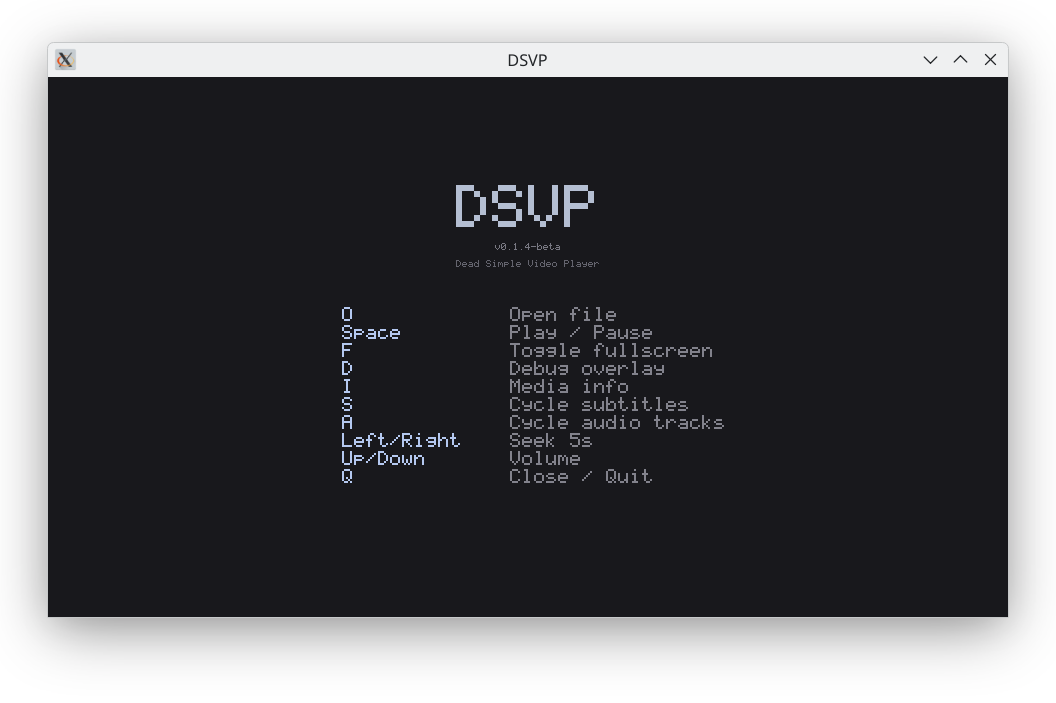
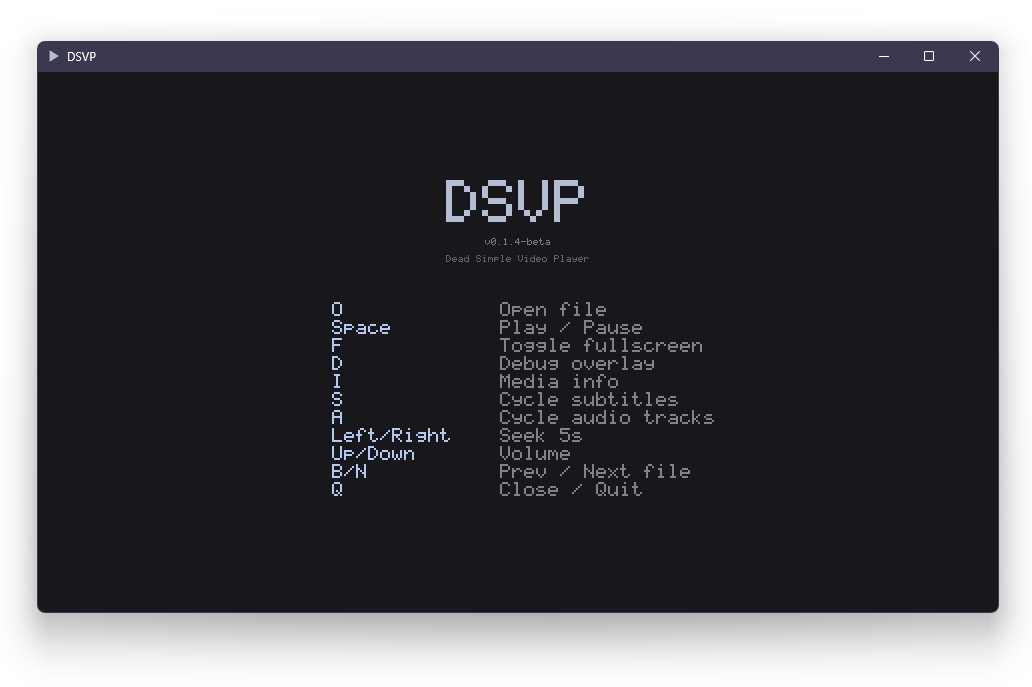
Updated docs, etc for 0.1.5-beta release

diff --git a/src/player.c b/src/player.c
@@ -208,6 +208,8 @@ static const char hlsl_yuv_planar_frag[] =
     "    }\n"
     "\n"
     "    float filtered = (wsum > 0.0) ? result / wsum : 0.0;\n"
+    "    /* Anti-ringing: clamp to local tap range. Strength 0.8 per\n"
+    "     * Artoriuz's scaler benchmarks (mpv community). */\n"
     "    float clamped  = clamp(filtered, tap_min, tap_max);\n"
     "    return lerp(filtered, clamped, 0.8);\n"
     "}\n"

diff --git a/src/dsvp.h b/src/dsvp.h
@@ -37,7 +37,7 @@
 
 /* ── Constants ──────────────────────────────────────────────────────── */
 
-#define DSVP_VERSION        "0.1.4-beta"
+#define DSVP_VERSION        "0.1.5-beta"
 #define DSVP_WINDOW_TITLE   "DSVP"
 
 #define PACKET_QUEUE_MAX    256     /* max packets buffered per stream  */

diff --git a/README.md b/README.md
@@ -21,12 +21,13 @@ Claude wrote most of this:
 
 ## Features
 
-- **Reference-quality playback** — Lanczos-2 luma scaling, Catmull-Rom chroma upsampling, blue noise dithering, faithful color/gamma/framerate
+- **Reference-quality playback** — Lanczos-2 luma scaling (anti-ringing clamp), Catmull-Rom chroma upsampling (siting-corrected), temporal blue noise dithering, faithful color/gamma/framerate
 - **10-bit passthrough** — YUV420P10LE content uploads as R16_UNORM planar textures with no truncation
 - **Software decode only** — no hardware decode, no driver quirks, bit-exact output
 - **Supports everything FFmpeg supports** — H.264, HEVC, AV1, VP9, VC-1, MKV, MP4, and hundreds more
 - **Multi-threaded decoding** — uses all available CPU cores
 - **Full subtitle support** — text (SRT, ASS/SSA), bitmap (PGS, VobSub), CJK fallback fonts, golden yellow with black outline, cycle tracks with `S`
+- **Folder navigation** — `B`/`N` keys to jump between media files in the current folder, with clickable prev/next buttons
 - **Portable** — single folder, no installer, no PATH changes
 - **Secure** — no networking capabilities whatsoever
 - **Cross-platform** — Vulkan on Windows/Linux, Metal on macOS
@@ -43,6 +44,7 @@ Claude wrote most of this:
 | `A` | Cycle audio tracks |
 | `←` / `→` | Seek ±5 seconds |
 | `↑` / `↓` | Volume up / down |
+| `B` / `N` | Previous / next file in folder |
 | `D` | Toggle debug overlay |
 | `I` | Toggle media info overlay |
 
@@ -55,6 +57,7 @@ Claude wrote most of this:
 - **SDL3** development libraries
 - **SDL3_ttf** development libraries
 - **SDL3_shadercross 3.0.0** (bundled — not available via package managers)
+- **zlib** (for PGS subtitle decompression)
 - **GNU Make**
 - **pkg-config**
 
@@ -64,7 +67,7 @@ Claude wrote most of this:
 
 **2. Install dependencies** (from MSYS2 MinGW 64-bit shell):
 ```bash
-pacman -S mingw-w64-x86_64-sdl3 mingw-w64-x86_64-sdl3-ttf
+pacman -S mingw-w64-x86_64-sdl3 mingw-w64-x86_64-sdl3-ttf mingw-w64-x86_64-pkg-config
 ```
 
 FFmpeg 8.0+ shared libraries are also needed via MSYS2:
@@ -100,7 +103,7 @@ sudo apt install gcc make pkg-config \
     libavformat-dev libavcodec-dev libswscale-dev \
     libswresample-dev libavutil-dev \
     libsdl3-dev libsdl3-ttf-dev \
-    fonts-dejavu-core fonts-noto-cjk zenity
+    zlib1g-dev fonts-dejavu-core fonts-noto-cjk zenity
 ```
 
 **2. SDL3_shadercross** is bundled in `shadercross/SDL3_shadercross-3.0.0-linux-x64/`. No action needed — the Makefile finds it automatically.
@@ -161,7 +164,7 @@ DSVP/
 
 ## Technical Details
 
-DSVP uses a custom GPU rendering pipeline built on SDL_GPU with HLSL shaders cross-compiled to SPIR-V via SDL3_shadercross 3.0.0. The fragment shader performs Lanczos-2 resampling on luma (16-tap windowed sinc), Catmull-Rom bicubic interpolation on chroma (16-tap), limited→full range expansion, BT.601/BT.709 color matrix conversion, and blue noise dithering (64×64 void-and-cluster texture) — all in a single pass. YUV420P and YUV420P10LE formats bypass `swscale` entirely; raw decoded planes upload directly to GPU textures.
+DSVP uses a custom GPU rendering pipeline built on SDL_GPU with HLSL shaders cross-compiled to SPIR-V via SDL3_shadercross 3.0.0. The fragment shader performs Lanczos-2 resampling on luma (16-tap windowed sinc with anti-ringing clamp at 0.8), Catmull-Rom bicubic interpolation on chroma (16-tap with sub-texel siting correction), limited→full range expansion, BT.601/BT.709 color matrix conversion, and temporal blue noise dithering (64×64 void-and-cluster texture, per-frame offset) — all in a single pass. YUV420P and YUV420P10LE formats bypass `swscale` entirely; raw decoded planes upload directly to GPU textures.
 
 The GPU backend is Vulkan on Windows and Linux, Metal on macOS (untested). Audio is the master clock with adaptive bias correction (EMA α=0.05) for OS audio pipeline latency. At 1:1 content/display framerate (≥50fps), VSync is the sole pacing source with frame drops and delay correction bypassed.
 

diff --git a/SETUP.md b/SETUP.md
@@ -87,18 +87,18 @@ sudo apt install gcc make pkg-config \
     libavformat-dev libavcodec-dev libswscale-dev \
     libswresample-dev libavutil-dev \
     libsdl3-dev libsdl3-ttf-dev \
-    fonts-dejavu-core fonts-noto-cjk zenity
+    zlib1g-dev fonts-dejavu-core fonts-noto-cjk zenity
 ```
 
 `fonts-noto-cjk` provides CJK subtitle fallback. `zenity` provides the file-open dialog.
 
 ### Step 2: SDL3_shadercross
 
-Shadercross is not in Debian's repos. Download the Linux x64 build from the [SDL_shadercross GitHub Actions CI](https://github.com/libsdl-org/SDL_shadercross/actions/workflows/main.yml) (requires GitHub login). Pick the latest successful workflow run, download `SDL3_shadercross-3.0.0-linux-x64` from the Artifacts section.
+Already bundled in the repo at `shadercross/SDL3_shadercross-3.0.0-linux-x64/`. The Makefile finds it automatically. No action needed.
 
-Extract to `shadercross/SDL3_shadercross-3.0.0-linux-x64/` at the repo root.
+If you need a fresh copy, download from [SDL_shadercross GitHub Actions CI](https://github.com/libsdl-org/SDL_shadercross/actions/workflows/main.yml) → latest successful run → Artifacts → `SDL3_shadercross-3.0.0-linux-x64`.
 
-**Important:** GitHub CI artifacts are zipped without preserving symlinks. You must recreate them:
+**Note:** Some Git/OS combinations don't preserve symlinks on clone. If you see linker errors about missing `.so` files, recreate the symlinks:
 
 ```bash
 cd shadercross/SDL3_shadercross-3.0.0-linux-x64/lib

diff --git a/SteamOS.md b/SteamOS.md
@@ -6,13 +6,13 @@ Tested: 4K 60fps software decode, Vulkan, zero dropped frames on Steam Deck OLED
 
 ## Quick Start
 
-**1. Download** the latest `DSVP-portable-linux.tar.gz` from [Releases](https://github.com/ASIXicle/DSVP/releases/).
+**1. Download** the latest `DSVP-*-linux-x64.tar.gz` from [Releases](https://github.com/ASIXicle/DSVP/releases/).
 
 **2. Extract and install.** Switch to Desktop Mode, open Konsole, and run:
 
 ```bash
 cd ~
-tar xzf ~/Downloads/DSVP-portable-linux.tar.gz
+tar xzf ~/Downloads/DSVP-*-linux-x64.tar.gz
 mv DSVP-portable DSVP
 chmod +x DSVP/dsvp DSVP/dsvp.sh
 ```
@@ -83,6 +83,7 @@ For best results with DSVP's quality pipeline:
 | `A` | Cycle audio tracks |
 | `←` / `→` | Seek ±5 seconds |
 | `↑` / `↓` | Volume up / down |
+| `B` / `N` | Previous / next file in folder |
 | `D` | Debug overlay |
 | `I` | Media info overlay |
 
